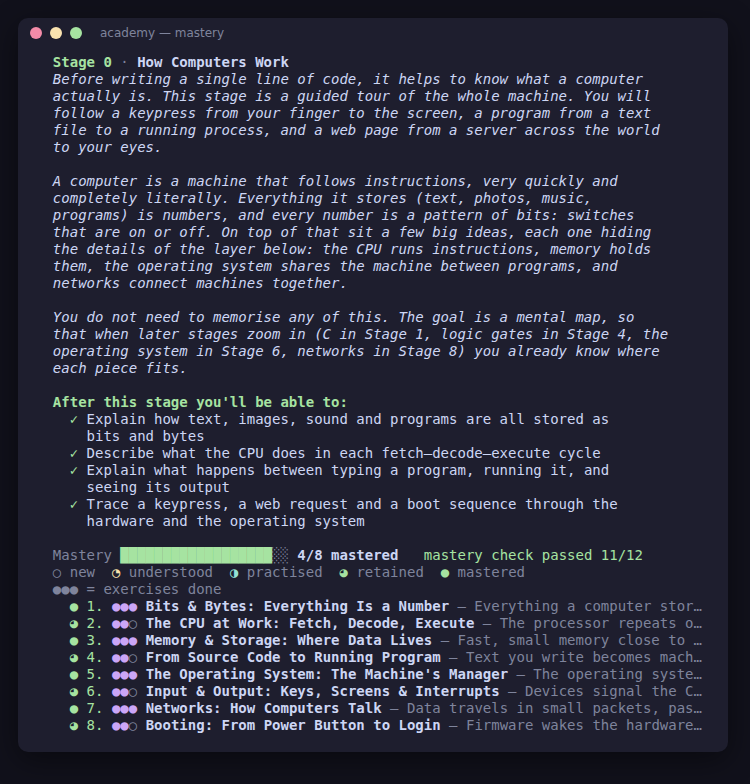
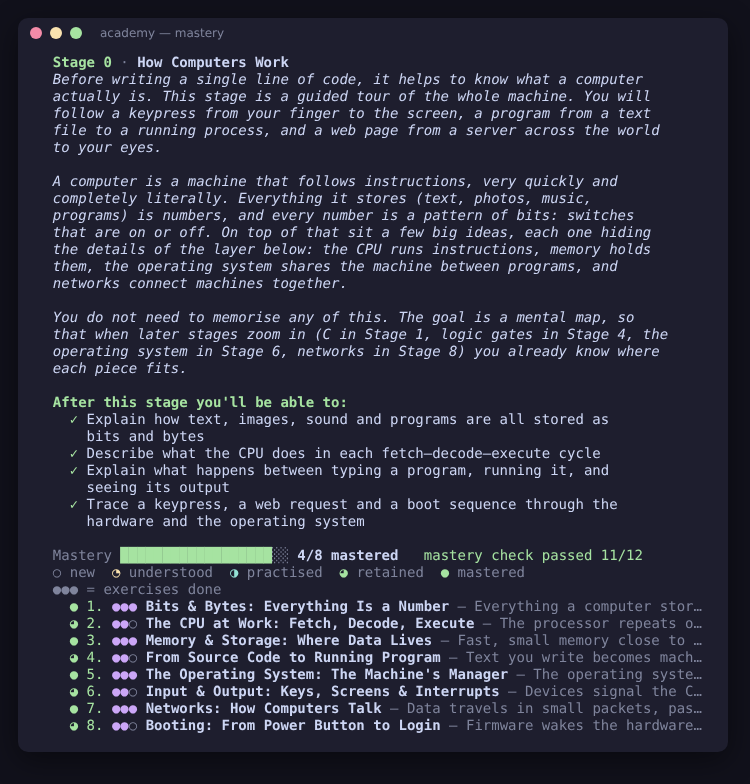
Fresh screenshots for 1.9.0, and release notes that never come out empty
Screenshots: every README shot retaken from this version, plus two new
ones (the key bar, and the editing keys with where else they work).
tools/screenshots.py now models the cursor rows the key bar moves
through, finds today's Playwright browsers, and its stage-list and
struggle-clock shots follow the current screens.

Releases: v1.8.0 was published from the website with an empty
description. The release workflow now fills an empty description with
the CHANGELOG section, and a Release notes workflow (Run workflow, with a
tag) fills one in for a release published earlier. The section is
extracted by tools/release_notes.sh for both.

Claude-Session: https://claude.ai/code/session_01PeHC9mGDMKHVeqdMKqCduv

diff --git a/academy/tools/screenshots.py b/academy/tools/screenshots.py
@@ -21,7 +21,9 @@ def find_chrome():
     if os.environ.get("CHROME"):
         return os.environ["CHROME"]
     for pattern in ["/opt/pw-browsers/chromium_headless_shell-*/chrome-linux/headless_shell",
-                    "/opt/pw-browsers/chromium-*/chrome-linux/chrome"]:
+                    "/opt/pw-browsers/chromium_headless_shell-*/chrome-headless-shell-linux64/chrome-headless-shell",
+                    "/opt/pw-browsers/chromium-*/chrome-linux/chrome",
+                    "/opt/pw-browsers/chromium-*/chrome-linux64/chrome"]:
         hits = sorted(glob.glob(pattern))
         if hits:
             return hits[-1]
@@ -36,7 +38,7 @@ def find_chrome():
 #        max lines[, which key's output to start from: -1 = the last])
 SHOTS = {
     "menu": (80, [], r"Today [0-9]+ min", r"└─", 40),
-    "stages": (80, ["6"], r"STUDY HALL", r"\[16\]", 40),
+    "stages": (80, ["6"], r"STUDY HALL", r"\[20\]", 40),
     "concept-card": (80, ["6", "1", "1", "5"], r"┏━", r"◆ Mental model", 70),
     "under-the-hood": (80, ["6", "1", "1", "6"], r"🔧 Under the hood", r"◆ Mental model", 30),
     "exercise-gym": (80, ["6", "0", "2", "3", "3"], r"REAL-WORLD", r"\(y/n\)|›", 30),
@@ -54,10 +56,12 @@ SHOTS = {
     "workout": (80, ["j"], r"TODAY'S WORKOUT", r"Ready\?", 30),
     "career": (80, ["e", "1", "1", "y"], r"GET HIRED", r"Back to the main menu", 32, -1),
     "hint-ladder": (80, ["6", "0", "2", "3", "3", "2", "2"], r"Stuck\?", r"this exercise\.", 40, -3),
-    "settings": (80, ["o", "1"], r"SETTINGS", r"Monochrome", 30, -2),
+    "settings": (80, ["o", "1"], r"SETTINGS", r"Theme.*›", 30, -2),
+    "key-bar": (80, [], r"\[\?\] All screens", r"academy ›", 8),
+    "keys": (80, ["?"], r"While typing", r"macOS", 40),
     "share-card": (80, ["k"], r"╭", r"learning_space", 25),
     "start-here": (80, ["0"], r"WHY WE START WITH C", r"GET A C COMPILER", 20),
-    "struggle-clock": (80, ["c", "y", "6", "1", "2", "5", "2", "y"], r"PRACTICE", r"learning happens", 30, -2),
+    "struggle-clock": (80, ["c", "y", "6", "1", "2", "5", "2", "2", "2", "2"], r"🔒", r"What now", 12),
 }
 
 SGR_COLORS = {"30": "#45475a", "31": "#f38ba8", "32": "#a6e3a1", "33": "#f9e2af", "34": "#89b4fa",
@@ -112,9 +116,17 @@ def run_session(cols, keys, registry, from_key=-1, rows=200):
 
 
 def terminal_lines(text):
-    """Apply the few control sequences the app uses; keep SGR colours."""
-    lines, cur = [], ""
-    saved = ([], "")
+    """Apply the control sequences the app uses; keep SGR colours.
+
+    A small row-based terminal: the cursor is on a row and at its end
+    (the app rewrites whole lines after \\r), and moves up and down (A, B),
+    deletes a row (M, the key bar), and clears (J, K, H)."""
+    rows, r = [""], 0
+    saved = ([""], 0)
+
+    def need(n):
+        while len(rows) <= n:
+            rows.append("")
     i = 0
     while i < len(text):
         ch = text[i]
@@ -122,42 +134,50 @@ def terminal_lines(text):
             m = CSI.match(text, i)
             if m:
                 params, cmd = m.groups()
+                n = int(params) if params.isdigit() else 1
                 if cmd == "m":
-                    cur += m.group(0)
-                elif cmd == "J":
-                    lines, cur = [], ""
+                    rows[r] += m.group(0)
                 elif cmd == "H":  # cursor home: the app redraws the whole screen
-                    lines, cur = [], ""
+                    rows, r = [""], 0
+                elif cmd == "J":
+                    if params == "2":
+                        rows, r = [""], 0
+                    else:  # to the end of the screen, from the start of the row
+                        rows[r] = ""
+                        del rows[r + 1:]
                 elif cmd == "h" and "1049" in params:  # alternate screen on
-                    saved, lines, cur = (lines, cur), [], ""
+                    saved, rows, r = (rows, r), [""], 0
                 elif cmd == "l" and "1049" in params:  # alternate screen off
-                    lines, cur = saved
+                    rows, r = saved
                 elif cmd == "K":
                     if params == "2":
-                        cur = ""
-                elif cmd == "A":  # cursor up: back onto earlier lines
-                    for _ in range(int(params or "1")):
-                        cur = lines.pop() if lines else ""
+                        rows[r] = ""
+                elif cmd == "A":
+                    r = max(0, r - n)
+                elif cmd == "B":
+                    r += n
+                    need(r)
+                elif cmd == "M":  # delete lines: the rows below move up
+                    del rows[r:r + n]
+                    need(r)
                 i = m.end()
                 continue
             i += 1
             continue
         if ch == "\n":
-            lines.append(cur)
-            cur = ""
+            r += 1
+            need(r)
         elif ch == "\r":
-            if i + 1 < len(text) and text[i + 1] == "\n":
-                pass
-            else:
-                cur = ""
+            if not (i + 1 < len(text) and text[i + 1] == "\n"):
+                rows[r] = ""
         elif ch == "\x07":
             pass
         else:
-            cur += ch
+            rows[r] += ch
         i += 1
-    if cur:
-        lines.append(cur)
-    return lines
+    while rows and not plain(rows[-1]).strip():
+        rows.pop()
+    return rows
 
 
 def plain(line):

diff --git a/academy/app.go b/academy/app.go
@@ -1100,12 +1100,12 @@ func (a *App) showShortcuts() {
 	}
 	a.println("")
 	row := func(key, what string) {
-		for i, l := range wrap(what, a.cols()-20, "") {
+		for i, l := range wrap(what, a.cols()-21, "") {
 			k := ""
 			if i == 0 {
 				k = key
 			}
-			a.printf("    %s %s\n", sty.Bold(sty.Cyan(padRight(k, 14))), l)
+			a.printf("    %s %s\n", sty.Bold(sty.Cyan(padRight(k, 15))), l)
 		}
 	}
 	para := func(text string) {

diff --git a/academy/README.md b/academy/README.md
@@ -749,7 +749,11 @@ Press **`c`** on the main menu. Classic Mode brings back the habits that made st
 
 These are the line-editing keys of GNU readline and of zsh's Emacs mode, so they are the same at the prompts of bash, zsh, Python, psql, sqlite3, gdb and many more, and in macOS text boxes; what you practise here works there, and the other way round. The pager's keys are those of `less` and `man`.
 
+![The key bar under the main menu](docs/key-bar.png)
+
 **The key bar.** At the bottom of the screen, on the line above each prompt, a bar names the keys that work there, as in nano: `Enter answer  ←→ move  ↑↓ earlier answers  ^A ^E start, end  …` (`^L` means Ctrl+L). At the main menu it shows the menu's keys instead. It disappears once you answer, so no trail of bars is left behind, and it keeps only what fits on narrow screens. Settings (`o`) can switch it off.
+
+![Every editing key, and where else it works](docs/keys.png)
 
 On Linux, macOS and the BSDs, the academy reads keys one at a time (a small built-in line editor using termios from Go's standard library), so every key above acts instantly and other keys are ignored instead of printing `^[[5~`. The terminal is always restored on exit, including after Ctrl+C. Elsewhere (for example Windows), input stays line-based and the terminal edits the line with its own keys: press **Ctrl+L then Enter**, or type `clear`.
 
@@ -949,7 +953,7 @@ The **Release** workflow (`.github/workflows/release.yml`) then:
 - publishes a GitHub release with the archives, `SHA256SUMS`, and that version's changelog section as the release notes. A tag with a hyphen, such as `v1.1.0-rc.1`, is published as a pre-release;
 - runs `tools/packages.py`, which rewrites `Formula/academy.rb` (Homebrew) and `bucket/academy.json` (Scoop) at the repository root with the new download links and checksums, and commits them to the default branch. Pre-releases are skipped, and an older tag never replaces a newer version. If the branch rules refuse the workflow's push, it opens a pull request with the two files instead; merge it to update `brew` and `scoop`.
 
-No terminal? Publish from the website instead: **Releases → Draft a new release**, type a new tag such as `v1.0.0`, paste the changelog section as the description, and click **Publish release**. The same workflow then builds the archives and attaches them to that release, usually within a few minutes.
+No terminal? Publish from the website instead: **Releases → Draft a new release**, type a new tag such as `v1.0.0`, and click **Publish release**. Leave the description empty and the workflow fills it with that version's changelog section, or write your own and it is kept. The same workflow then builds the archives and attaches them to that release, usually within a few minutes. To fill in the description of a release published earlier with none, run **Actions → Release notes → Run workflow** with its tag.
 
 Publishing from the website starts the workflow twice (once for the release, once for its new tag); the second run sees the files already attached and stops. To rebuild a release's files, delete its `SHA256SUMS` asset and re-run the workflow. The archives are reproducible: building the same commit again gives the same checksums.
 

diff --git a/academy/CHANGELOG.md b/academy/CHANGELOG.md
@@ -11,6 +11,14 @@ versions follow [Semantic Versioning](https://semver.org/).
 - **A key bar at the bottom of the screen.** The line above each prompt names the keys that work there, nano-style (`Enter answer  ←→ move  ↑↓ earlier answers  ^A ^E start, end …`), with the menu's own keys at the main menu and how to finish at multi-line answers. It shows only keys that really work (fewer where the terminal edits whole lines, as on Windows), fits from 40 columns, and disappears once you answer, so it leaves no trail. Settings can switch it off.
 - **"All screens & keys" teaches the editing keys and where else they work:** bash and zsh (plus Ctrl+R), python3, psql, sqlite3, gdb, less and man, Emacs, where these keys come from, and macOS text boxes.
 
+![The key bar under the main menu](https://github.com/pronexuscodex/learning_space/raw/v1.9.0/academy/docs/key-bar.png)
+
+![Every editing key, and where else it works](https://github.com/pronexuscodex/learning_space/raw/v1.9.0/academy/docs/keys.png)
+
+### Changed
+- **Fresh screenshots** in the README, taken from this version: the Study Hall with all 21 stages, the key bar under each prompt, the hint ladder and the struggle clock as they work now. `tools/screenshots.py` follows the cursor moves the key bar uses, and finds the browsers Playwright installs today.
+- **Releases published from the website get their notes even when the description is left empty:** the release workflow fills it with the version's CHANGELOG section. A new **Release notes** workflow (Actions → Release notes → Run workflow) fills in a release published earlier without a description, such as v1.8.0.
+
 ## [1.8.0] - 2026-10-24
 
 ### Added
